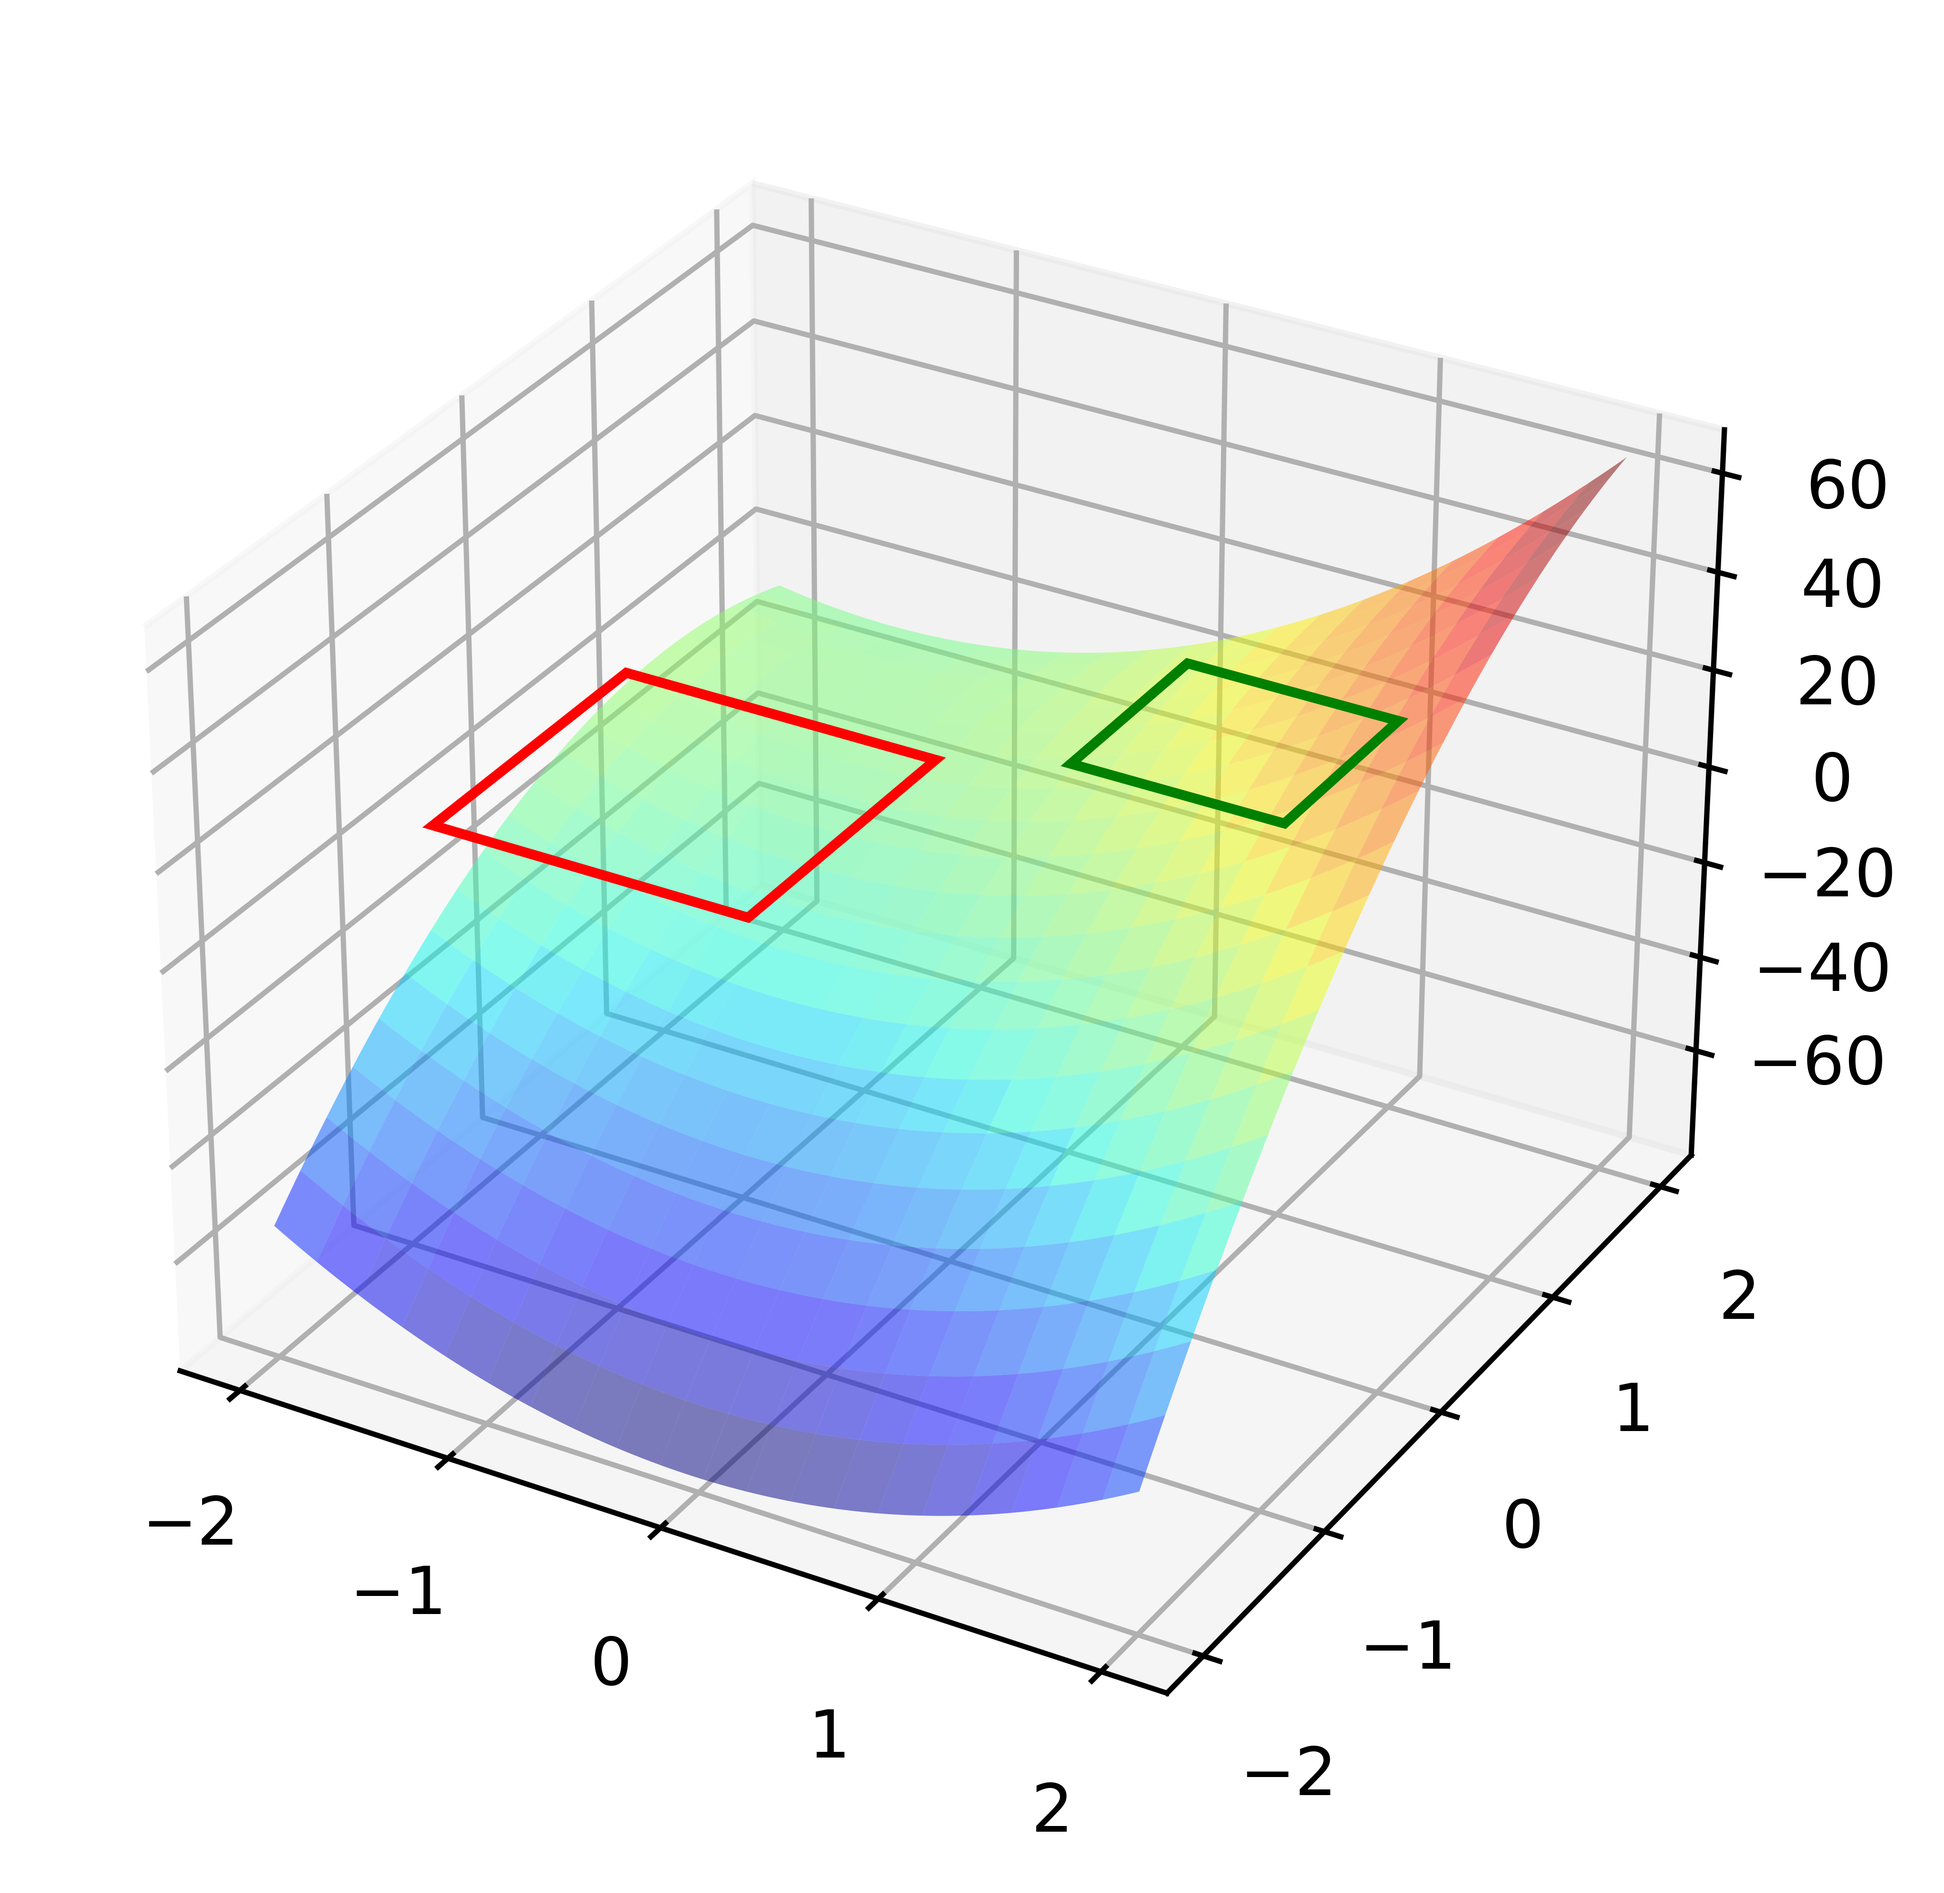
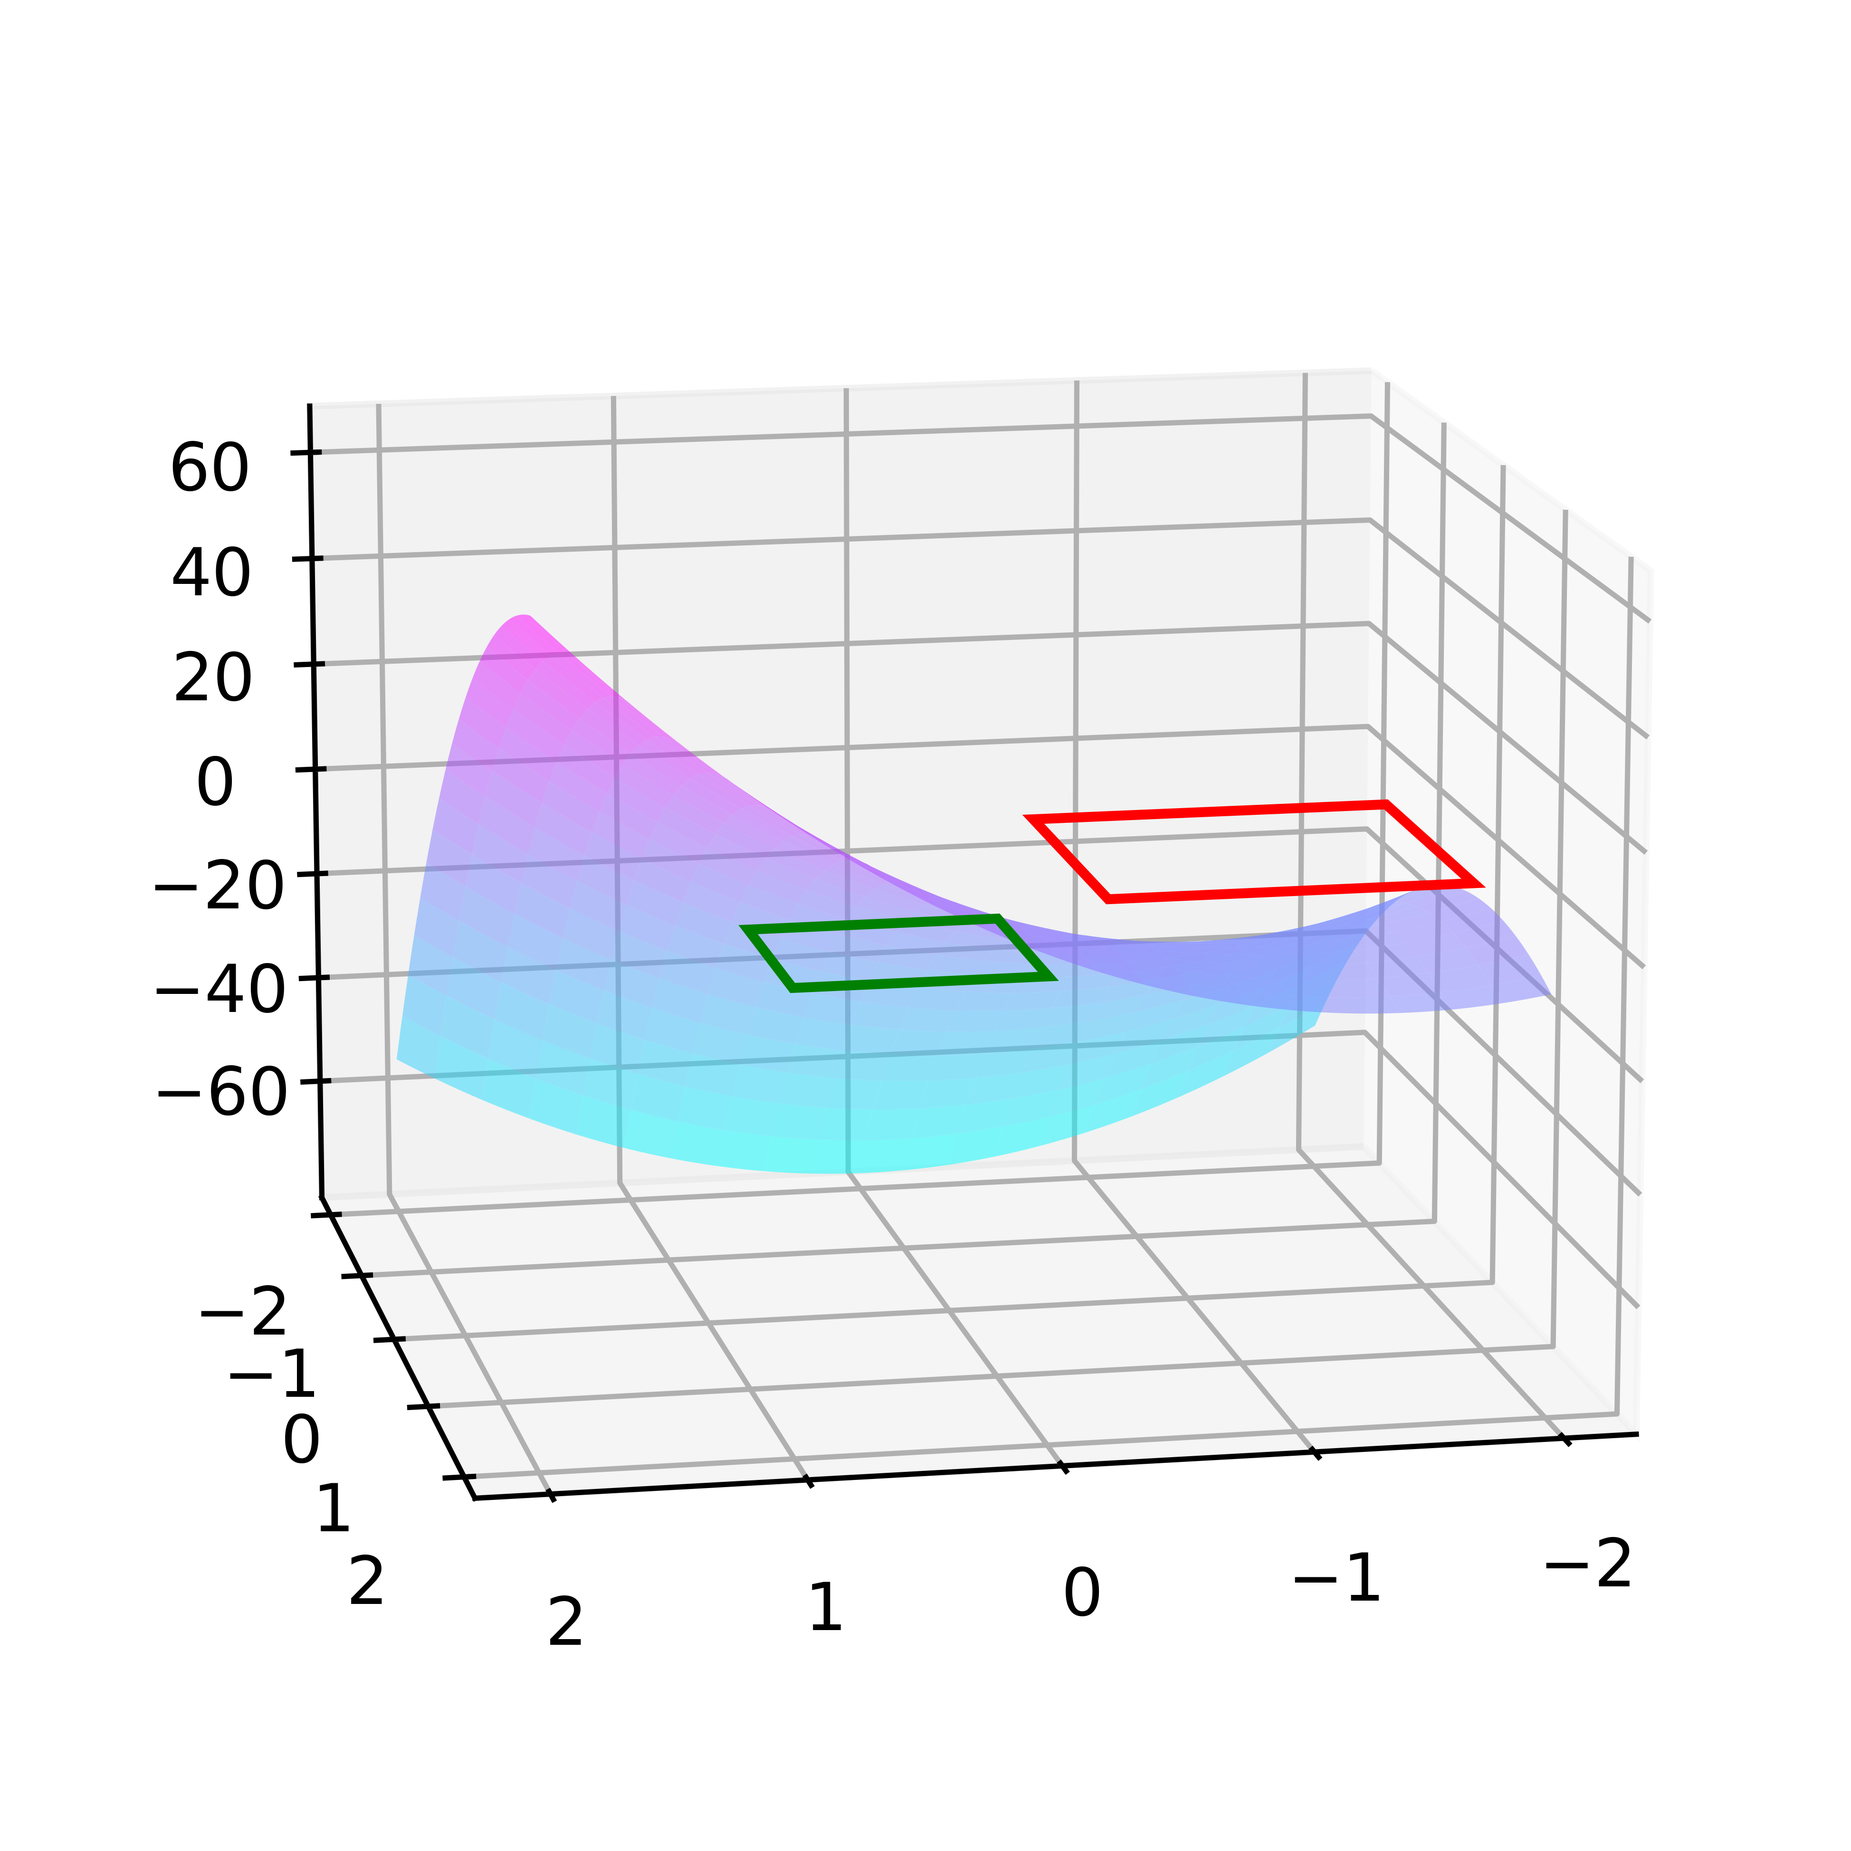
1.27

diff --git a/plot/plot.py b/plot/plot.py
@@ -75,7 +75,7 @@ class Draw:
         unsafe = self.draw_zone(self.ex.U, color='r', label='unsafe')
         ax.add_patch(unsafe)
         art3d.pathpatch_2d_to_3d(unsafe, z=0, zdir="z")
-        # ax.view_init(elev=25, azim=-86)
+        # ax.view_init(elev=7, azim=12)
         plt.savefig(f'picture/{self.ex.name}_3d.png', dpi=1000, bbox_inches='tight')
         plt.show()
 
@@ -91,6 +91,7 @@ class Draw:
         unsafe = self.draw_zone(self.ex.U, color='r', label='unsafe')
         ax.add_patch(unsafe)
         art3d.pathpatch_2d_to_3d(unsafe, z=0, zdir="z")
+        # ax.view_init(elev=-164, azim=165)
         plt.savefig(f'picture/{self.ex.name}_3d.png', dpi=1000, bbox_inches='tight')
         plt.show()
 
@@ -103,7 +104,7 @@ class Draw:
         lambda_b = sp.lambdify(s_x, b, 'numpy')
         plot_b = lambda_b(X, Y)
         if self.ex.continuous:
-            ax.plot_surface(X, Y, plot_b, rstride=5, cstride=5, alpha=0.5, cmap=cm.jet)
+            ax.plot_surface(X, Y, plot_b, rstride=5, cstride=5, alpha=0.5, cmap='cool')
         else:
             ax.plot_surface(X, Y, plot_b, rstride=5, cstride=5, alpha=0.5, cmap='cool')
 
@@ -144,12 +145,4 @@ class Draw:
 
 
 if __name__ == '__main__':
-    from benchmarks.Examplers import get_example_by_name
-
-    ex = get_example_by_name('H3')
-    b1 = '0.0400758160260908*x1**2 - 2.40897372979335*x1*x2 - 1.24390362040234*x1 - 1.43151614875389*x2**2 + 0.259768727895773*x2 + 0.831009430574983'
-    b2 = '0.13928392864101*x1**2 + 1.01008702869913*x1*x2 - 1.33612375376827*x1 - 1.19809153148389*x2**2 - 1.9334641802199*x2 + 3.94266860834908'
-
-    d = Draw(ex, b1, b2)
-    d.draw_3d()
-    d.draw()
+    pass
